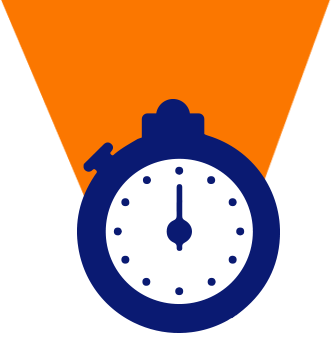
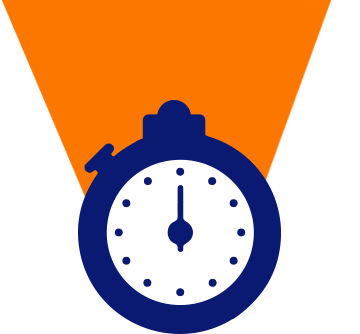
done

Changed region(s): [[0.3625, 0.0, 0.997, 0.9581], [0.0906, 0.2096, 0.6344, 1.0], [0.0302, 0.0599, 0.0906, 0.2096]]

diff --git a/views/content/schoolprofile.html b/views/content/schoolprofile.html
@@ -641,14 +641,19 @@
         </div>
       </div>
 -->
-        <div class="row">
-            <div class="col-md-12">
-                <div class="another-static text-center">
-                    <img src="img/watch2.jpg" class="img-responsive">
-
+            <div class="row">
+                <div class="col-md-12">
+                    <div class="another-static text-center">
+                        <img src="img/watch.png" class="img-responsive">
+                        
+                        <div class="txt-sorry">
+                        <h1>sorry.</h1>
+                            <h3>This information will be updated</h3>
+                            <h3>only after the end of the tournament.</h3>
+                        </div>
+                    </div>
                 </div>
             </div>
-        </div>
 
     </div>
     <div class="marginegt " ng-show="tab2=='squad'">

diff --git a/views/content/studentprofile.html b/views/content/studentprofile.html
@@ -599,8 +599,13 @@
             <div class="row">
                 <div class="col-md-12">
                     <div class="another-static text-center">
-                        <img src="img/watch2.jpg" class="img-responsive">
+                        <img src="img/watch.png" class="img-responsive">
                         
+                        <div class="txt-sorry">
+                        <h1>sorry.</h1>
+                            <h3>This information will be updated</h3>
+                            <h3>only after the end of the tournament.</h3>
+                        </div>
                     </div>
                 </div>
             </div>

diff --git a/less/mobile.less b/less/mobile.less
@@ -416,7 +416,7 @@
 // css for  mobile max 468
 @media @mobile {
     .another-static{
-    min-height: 400px !important;
+    min-height: 600px !important;
   img {
     margin: 0 auto;
 }
